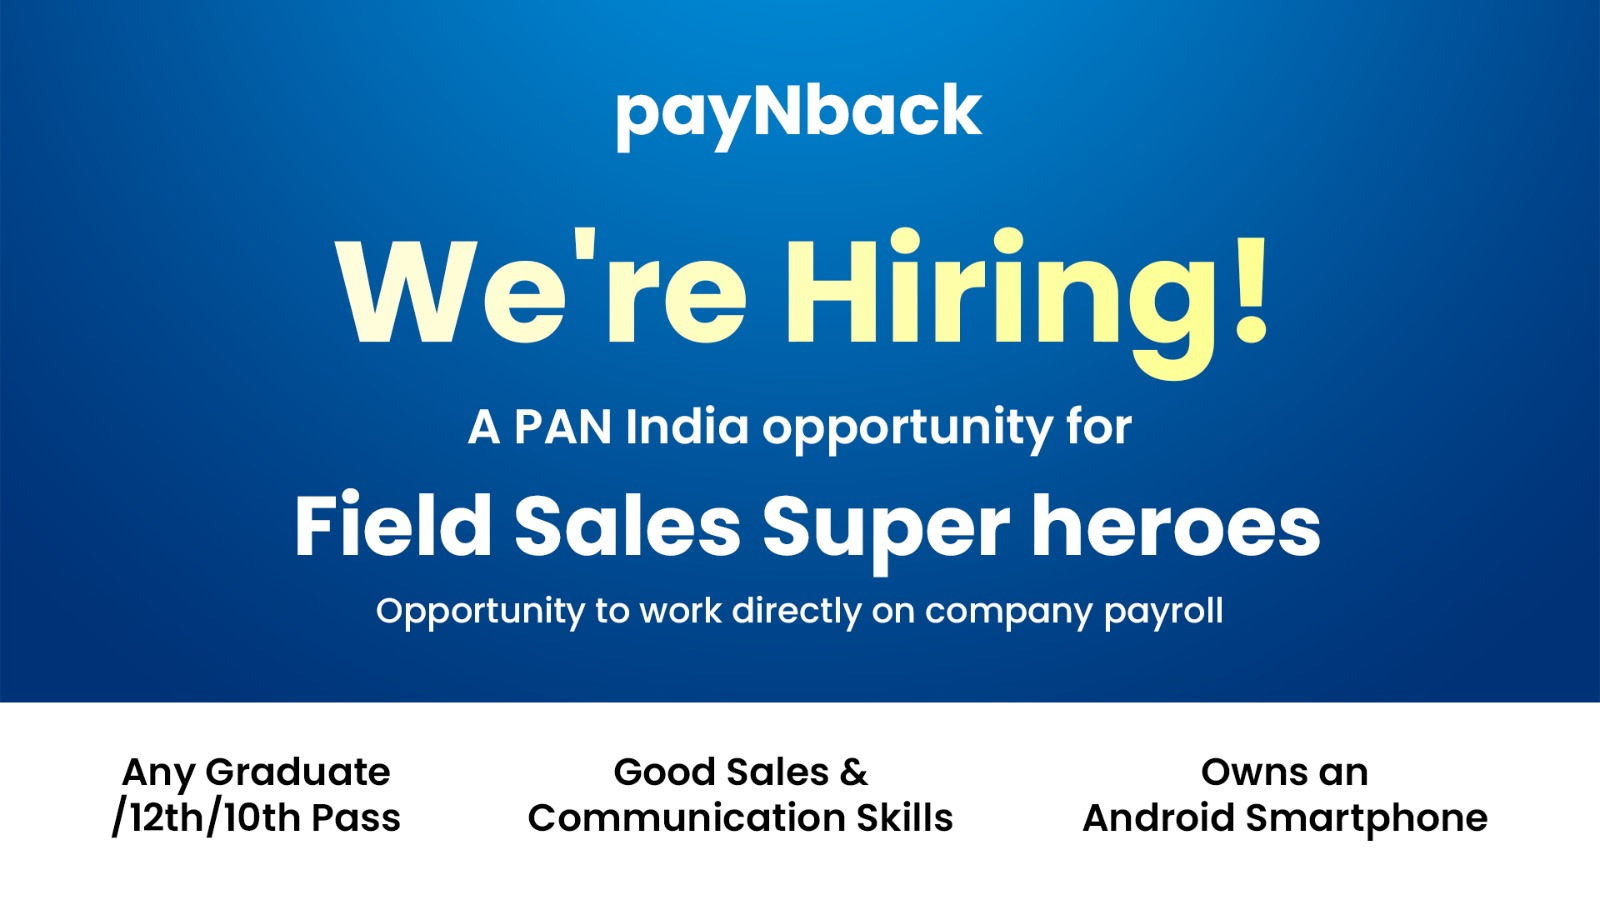
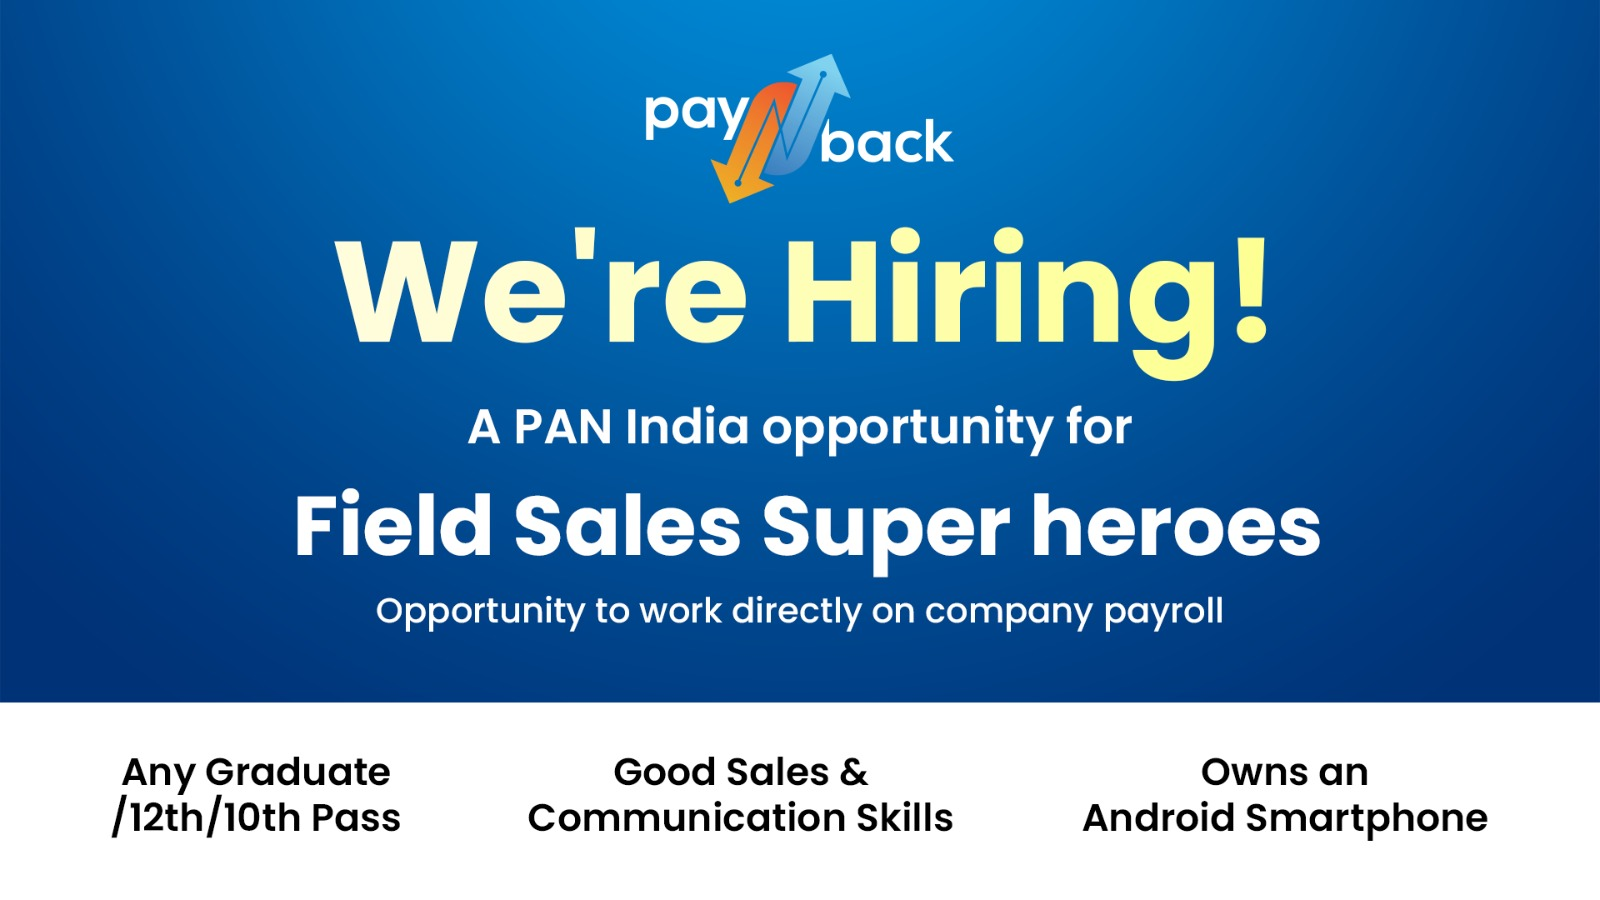
remote unused images

Changed region(s): [[0.375, 0.0622, 0.625, 0.2178]]

diff --git a/career.html b/career.html
@@ -182,7 +182,7 @@
         <div class="container">
             <div class="row">
                 <div class="col-12">
-                    <img src="/images/hire-img2.jpg" alt="Field Sales Executive - Banner" class="img-fluid" style="border-radius: 8px; max-width: 80%; height: auto;">
+                    <img src="/images/hire-img.jpg" alt="Field Sales Executive - Banner" class="img-fluid" style="border-radius: 8px; max-width: 80%; height: auto;">
                 </div>
             </div>
         </div>
@@ -269,7 +269,7 @@
                                     <li><b>• Customer Satisfaction & Retention:</b> Ensure high levels of customer satisfaction to drive better sales conversions and client retention, contributing to the success of PayNback’s customer-oriented approach.</li>
                                     <li><b>• Market Feedback & Competitor Insights:</b> Regularly collect feedback from the market to improve existing offerings and provide insights on competitor activities for product enhancements.</li>
                                 </ul>
-                                <div class="pl-2 pt-4">Apply Now Email.<a href="mailto:career@paynback.in">career@paynback.in</a></div>
+                                <div class="pl-2 pt-4">Apply now Email.<a href="mailto:career@paynback.in">career@paynback.in</a></div>
                             </div>
                             
                             <div class="col-lg-5 col-md-12 col-sm-12 content-column">
@@ -301,7 +301,7 @@
                                         <!-- <div class="pt-2"><a href="mailto:career@paynback.in">career@paynback.in</a></div> -->
                                     </div>
                                     
-                                </div>
+                                </div>  
                             </div>
                         </div>
                     </div>
